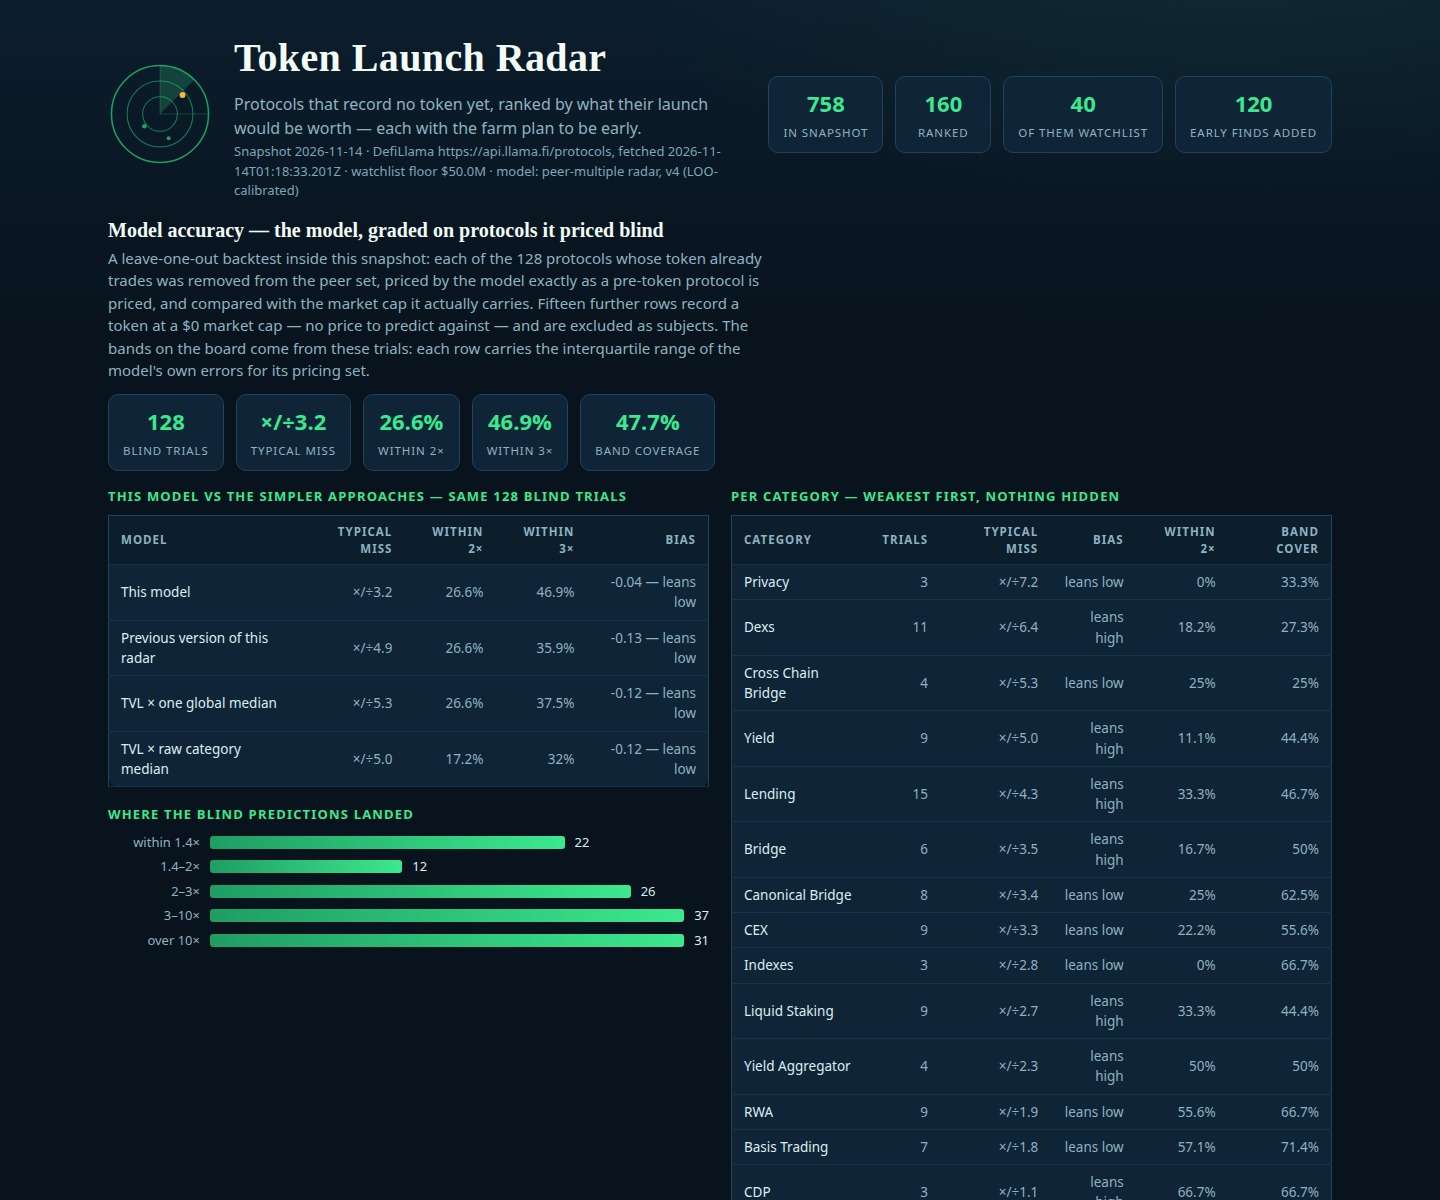
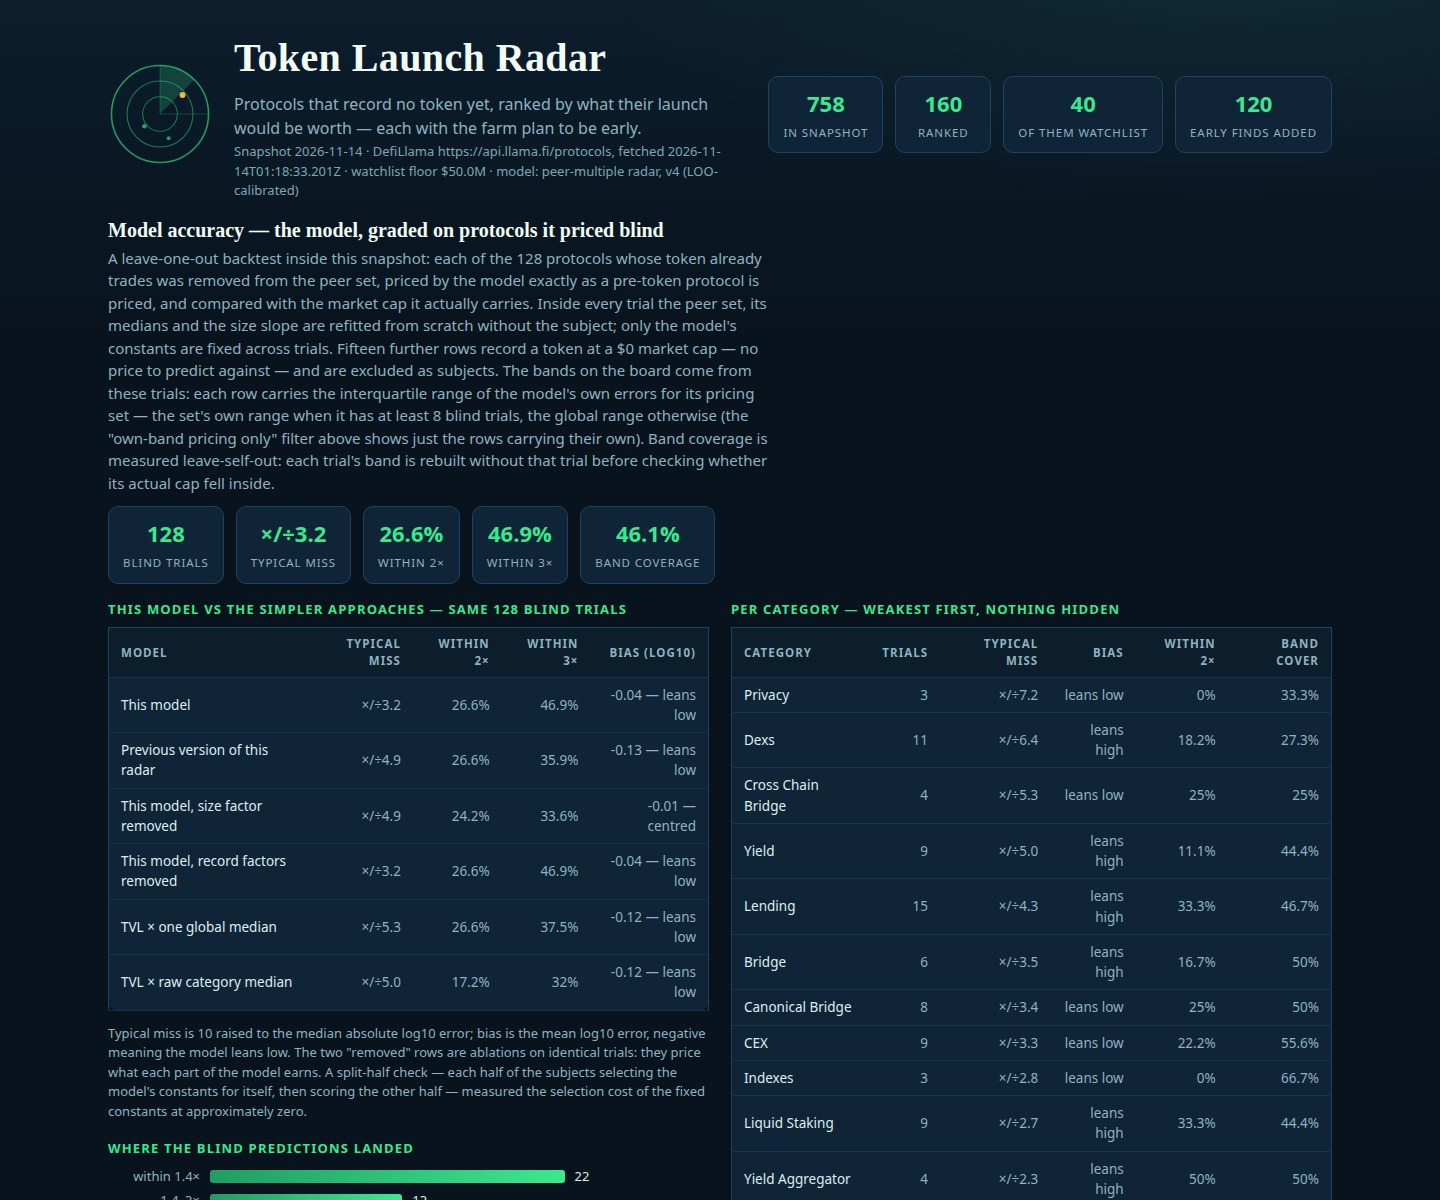
Stage 4b (v2): judge round 3 fixes — LSO coverage, ablations, plan totals
- Band coverage now measured leave-self-out (46.1%, printed per
  category); accuracy text states the per-fold refit and the >=8
  trial threshold for a category's own band
- Comparison table gains ablation rows: size removed x/div4.9,
  record factors removed unchanged — attribution made visible
- Comparables show up to 12 peers with the total stated (the 9-vs-8
  mismatch a judge caught cannot recur silently)
- Rows record band_source; detail labels it; new board filter
  'own-band pricing only' (51 of 160 rows)
- Farm plans gain all-in totals (position + gas over two months,
  minutes/week, hold) from the steps' own constants

diff --git a/dashboard/app.js b/dashboard/app.js
@@ -32,12 +32,13 @@ function esc(s) {
   return String(s).replace(/[&<>"']/g, (c) => ({ '&': '&amp;', '<': '&lt;', '>': '&gt;', '"': '&quot;', "'": '&#39;' }[c]));
 }
 
-const state = { q: '', cat: '', chain: '', watch: false, sort: 'rank', detail: null };
+const state = { q: '', cat: '', chain: '', watch: false, validated: false, sort: 'rank', detail: null };
 
 function filteredRows() {
   const q = state.q.trim().toLowerCase();
   let rows = R.rows.filter((r) => {
     if (state.watch && !r.watchlist) return false;
+    if (state.validated && r.band_source !== 'category') return false;
     if (state.cat && (r.category || '') !== state.cat) return false;
     if (state.chain && !r.chains.includes(state.chain)) return false;
     if (q && !(r.name.toLowerCase().includes(q) || r.slug.toLowerCase().includes(q))) return false;
@@ -59,6 +60,7 @@ function renderBoard() {
   if (state.cat) active.push('category ' + state.cat);
   if (state.chain) active.push('chain ' + state.chain);
   if (state.watch) active.push('watchlist only');
+  if (state.validated) active.push('own-band pricing only');
   if (state.q.trim()) active.push('search "' + state.q.trim() + '"');
   $('row-count').textContent =
     rows.length + ' of ' + R.rows.length + ' protocols on screen' +
@@ -126,8 +128,13 @@ function accuracyLine(r) {
 function comparablesHtml(r) {
   const pc = pricingCategory(r);
   if (!pc || !R.comparables) return '';
-  const peers = R.comparables[pc] || [];
-  if (peers.length === 0) return '';
+  const entry = R.comparables[pc];
+  if (!entry || entry.peers.length === 0) return '';
+  const peers = entry.peers;
+  const more =
+    entry.total > peers.length
+      ? '<p class="model-note">The ' + peers.length + ' largest of ' + entry.total + ' priced ' + esc(pc) + ' peers, by TVL.</p>'
+      : '';
   return (
     '<h3>The peers behind the multiple</h3>' +
     '<table class="factors"><tr><td>Live peer</td><td class="num">Market cap</td><td class="num">TVL</td><td class="num">Cap / TVL</td></tr>' +
@@ -138,7 +145,8 @@ function comparablesHtml(r) {
           money(l.tvl_usd) + '</td><td class="num">' + l.multiple.toFixed(2) + '×</td></tr>',
       )
       .join('') +
-    '</table>'
+    '</table>' +
+    more
   );
 }
 
@@ -170,7 +178,7 @@ function openDetail(slug) {
     '<button class="close" id="detail-close">Close ✕</button></div>' +
     '<div class="fact-grid">' +
     '<div class="fact"><span>Implied value</span><b>' + money(r.implied_value_usd) + '</b><small>calibrated band ' +
-    money(r.implied_low_usd) + ' – ' + money(r.implied_high_usd) + '</small></div>' +
+    money(r.implied_low_usd) + ' – ' + money(r.implied_high_usd) + (r.band_source === 'category' ? ' (this pricing set\'s own range)' : ' (global range — too few blind trials for its own)') + '</small></div>' +
     '<div class="fact"><span>TVL</span><b>' + money(r.tvl_usd) + '</b></div>' +
     '<div class="fact"><span>7-day TVL change</span><b class="' + chgClass + '">' + pct(r.change_7d) + '</b></div>' +
     '<div class="fact"><span>Category</span><b>' + esc(r.category || 'Uncategorised') + '</b></div>' +
@@ -184,6 +192,9 @@ function openDetail(slug) {
     '<p class="model-note">' + esc(accuracyLine(r)) + '</p>' +
     comparablesHtml(r) +
     '<h3>The farm plan</h3>' +
+    '<p class="model-note">All-in estimate: ' + money(r.plan.position_usd) + ' position + about $' + Math.max(1, Math.round(r.plan.gas_low_usd)) +
+    '–' + Math.round(r.plan.gas_high_usd) + ' of gas across the first two months · ~' + r.plan.minutes_per_week +
+    ' minutes a week · ' + r.plan.hold_days + '-day minimum hold. The gas range is the steps\' own per-transaction ranges added over the plan\'s actions.</p>' +
     '<ol class="steps">' + r.farm_steps.map((s) => '<li>' + esc(s) + '</li>').join('') + '</ol>';
   $('detail').hidden = false;
   $('detail-close').addEventListener('click', () => {
@@ -209,7 +220,7 @@ function renderAccuracy() {
     '<tr><td>' + label + '</td><td class="num">×/÷' + t.toFixed(1) + '</td><td class="num">' + b.within_2x_pct +
     '%</td><td class="num">' + b.within_3x_pct + '%</td><td class="num">' + b.bias_log10.toFixed(2) + ' — ' + biasWord(b.bias_log10) + '</td></tr>';
   $('acc-cmp').innerHTML =
-    '<thead><tr><th>Model</th><th class="num">Typical miss</th><th class="num">Within 2×</th><th class="num">Within 3×</th><th class="num">Bias</th></tr></thead><tbody>' +
+    '<thead><tr><th>Model</th><th class="num">Typical miss</th><th class="num">Within 2×</th><th class="num">Within 3×</th><th class="num">Bias (log10)</th></tr></thead><tbody>' +
     modelRow('This model', A.typical_factor, A) +
     modelRow('Previous version of this radar', A.v1.typical_factor, A.v1) +
     A.baselines.map((b) => modelRow(b.label, b.typical_factor, b)).join('') +
@@ -274,6 +285,7 @@ function applyHash() {
   if (h.get('cat')) { state.cat = h.get('cat'); $('cat').value = state.cat; }
   if (h.get('chain')) { state.chain = h.get('chain'); $('chain').value = state.chain; }
   if (h.get('watch')) { state.watch = true; $('watch').checked = true; }
+  if (h.get('validated')) { state.validated = true; $('validated').checked = true; }
   if (h.get('sort')) { state.sort = h.get('sort'); $('sort').value = state.sort; }
   if (h.get('detail')) {
     document.body.classList.add('detail-mode');
@@ -311,6 +323,7 @@ function init() {
   $('cat').addEventListener('change', (e) => { state.cat = e.target.value; renderBoard(); });
   $('chain').addEventListener('change', (e) => { state.chain = e.target.value; renderBoard(); });
   $('watch').addEventListener('change', (e) => { state.watch = e.target.checked; renderBoard(); });
+  $('validated').addEventListener('change', (e) => { state.validated = e.target.checked; renderBoard(); });
   $('sort').addEventListener('change', (e) => { state.sort = e.target.value; renderBoard(); });
 }
 

diff --git a/lib/model.ts b/lib/model.ts
@@ -197,9 +197,11 @@ export interface BoardRow {
   watchlist: boolean;
   age_days: number | null;
   implied_value_usd: number;
-  /** The same row priced at the peer set's shrunk p25 / p75 multiples: the honest range. */
+  /** The model's calibrated error band for this row's pricing set (lib/backtest.ts), not a peer spread. */
   implied_low_usd: number;
   implied_high_usd: number;
+  /** Which calibrated band the row carries: its pricing category's own, or the global range. */
+  band_source: 'category' | 'global';
   model: {
     peer_multiple: number;
     peer_basis: string;
@@ -211,6 +213,8 @@ export interface BoardRow {
     breadth_factor: number;
   };
   farm_steps: string[];
+  /** The plan's all-in totals, from the same constants the steps quote. */
+  plan: PlanTotals;
 }
 
 /** The dashboard's copy of one board row (farm plan included: the detail view shows it). */
@@ -320,7 +324,7 @@ export interface RadarData {
   live: LiveRow[];
   peers: PeerRow[];
   /** The largest priced live peers per category, for detail-view comparables tables. */
-  comparables: Record<string, PeerComparable[]>;
+  comparables: Record<string, { peers: PeerComparable[]; total: number }>;
   /** Present when main.ts ran the backtest: the model's measured record on blind pricing trials. */
   accuracy?: AccuracySummary;
 }
@@ -703,6 +707,8 @@ export function buildBoard(snapshot: Snapshot, model: RadarModel = MODEL, bands:
     implied_value_usd: s.implied,
     implied_low_usd: impliedLow,
     implied_high_usd: impliedHigh,
+    band_source:
+      bands !== null && s.bandCategory !== null && bands.byCategory.has(s.bandCategory) ? 'category' : 'global',
     model: {
       peer_multiple: round4(s.multiple),
       peer_basis: s.basis,
@@ -714,6 +720,7 @@ export function buildBoard(snapshot: Snapshot, model: RadarModel = MODEL, bands:
       breadth_factor: round4(s.breadthFactor),
     },
     farm_steps: farmPlan(p, s.age),
+    plan: farmPlanTotals(p, s.age),
     };
   });
 }
@@ -737,7 +744,7 @@ export function liveRows(snapshot: Snapshot): LiveRow[] {
 }
 
 /** The largest priced live peers of each category, richest-TVL first, for comparables tables. */
-function comparablesByCategory(snapshot: Snapshot): Record<string, PeerComparable[]> {
+function comparablesByCategory(snapshot: Snapshot): Record<string, { peers: PeerComparable[]; total: number }> {
   const groups = new Map<string, PeerComparable[]>();
   for (const p of snapshot.protocols) {
     if (p.category === null || p.mcap_usd === null || p.mcap_usd <= 0 || p.tvl_usd <= 0) continue;
@@ -745,9 +752,10 @@ function comparablesByCategory(snapshot: Snapshot): Record<string, PeerComparabl
     list.push({ name: p.name, mcap_usd: p.mcap_usd, tvl_usd: p.tvl_usd, multiple: round4(p.mcap_usd / p.tvl_usd) });
     groups.set(p.category, list);
   }
-  const out: Record<string, PeerComparable[]> = {};
+  const out: Record<string, { peers: PeerComparable[]; total: number }> = {};
   for (const [category, list] of groups) {
-    out[category] = list.sort((a, b) => b.tvl_usd - a.tvl_usd).slice(0, 8);
+    const sorted = list.sort((a, b) => b.tvl_usd - a.tvl_usd);
+    out[category] = { peers: sorted.slice(0, 12), total: sorted.length };
   }
   return out;
 }
@@ -896,6 +904,44 @@ function gasFor(chain: string): string {
   if (chain === 'Ethereum') return '$4–10';
   if (chain === 'Bitcoin') return '$1–3';
   return '$0.05–1.50';
+}
+
+/** The same gas range as numbers, for the plan's all-in estimate. */
+function gasRangeFor(chain: string): { low: number; high: number } {
+  if (chain === 'Ethereum') return { low: 4, high: 10 };
+  if (chain === 'Bitcoin') return { low: 1, high: 3 };
+  return { low: 0.05, high: 1.5 };
+}
+
+/** A farm plan's totals, derived from the same constants its steps quote. */
+export interface PlanTotals {
+  position_usd: number;
+  /** Estimated gas across the plan's first two months: opening + second action + the cadence touches. */
+  gas_low_usd: number;
+  gas_high_usd: number;
+  minutes_per_week: number;
+  hold_days: number;
+}
+
+/**
+ * What following the plan costs, all-in: the position the steps commit,
+ * the gas the steps' own per-transaction ranges add up to over the first
+ * two months (1 opening + 2 second-action sessions + 8 weekly cadence
+ * touches, or 4 fortnightly ones on Ethereum, matching the cadence step's
+ * own rhythm), the weekly minutes, and the minimum hold.
+ */
+export function farmPlanTotals(p: Protocol, age: number | null): PlanTotals {
+  const chain = p.chains.length > 0 ? p.chains[0]! : 'its main chain';
+  const g = gasRangeFor(chain);
+  const touches = chain === 'Ethereum' ? 4 : 8;
+  const actions = 3 + touches;
+  return {
+    position_usd: capitalFor(p),
+    gas_low_usd: Math.round(actions * g.low * 100) / 100,
+    gas_high_usd: Math.round(actions * g.high * 100) / 100,
+    minutes_per_week: chain === 'Ethereum' ? 5 : 10,
+    hold_days: holdDaysFor(age),
+  };
 }
 
 /** How long a position should be held to count, from the protocol's age. */

diff --git a/dashboard/index.html b/dashboard/index.html
@@ -47,6 +47,9 @@
   <label class="ctl check">
     <input id="watch" type="checkbox"> Watchlist only
   </label>
+  <label class="ctl check">
+    <input id="validated" type="checkbox"> Own-band pricing only
+  </label>
   <label class="ctl">Sort
     <select id="sort">
       <option value="rank">Implied value (rank)</option>
@@ -83,12 +86,13 @@
 
   <section class="live" id="accuracy">
     <h2>Model accuracy — the model, graded on protocols it priced blind</h2>
-    <p class="live-note">A leave-one-out backtest inside this snapshot: each of the 128 protocols whose token already trades was removed from the peer set, priced by the model exactly as a pre-token protocol is priced, and compared with the market cap it actually carries. Fifteen further rows record a token at a $0 market cap — no price to predict against — and are excluded as subjects. The bands on the board come from these trials: each row carries the interquartile range of the model's own errors for its pricing set.</p>
+    <p class="live-note">A leave-one-out backtest inside this snapshot: each of the 128 protocols whose token already trades was removed from the peer set, priced by the model exactly as a pre-token protocol is priced, and compared with the market cap it actually carries. Inside every trial the peer set, its medians and the size slope are refitted from scratch without the subject; only the model's constants are fixed across trials. Fifteen further rows record a token at a $0 market cap — no price to predict against — and are excluded as subjects. The bands on the board come from these trials: each row carries the interquartile range of the model's own errors for its pricing set — the set's own range when it has at least 8 blind trials, the global range otherwise (the "own-band pricing only" filter above shows just the rows carrying their own). Band coverage is measured leave-self-out: each trial's band is rebuilt without that trial before checking whether its actual cap fell inside.</p>
     <div class="acc-stats" id="acc-stats"></div>
     <div class="acc-cols">
       <div class="acc-box">
         <h3 class="acc-h">This model vs the simpler approaches — same 128 blind trials</h3>
         <table class="peer-table" id="acc-cmp"></table>
+        <p class="model-note">Typical miss is 10 raised to the median absolute log10 error; bias is the mean log10 error, negative meaning the model leans low. The two "removed" rows are ablations on identical trials: they price what each part of the model earns. A split-half check — each half of the subjects selecting the model's constants for itself, then scoring the other half — measured the selection cost of the fixed constants at approximately zero.</p>
         <h3 class="acc-h">Where the blind predictions landed</h3>
         <div id="acc-histo"></div>
       </div>

diff --git a/lib/backtest.ts b/lib/backtest.ts
@@ -166,15 +166,24 @@ export function runBacktest(snapshot: Snapshot, model: RadarModel = MODEL): { ac
   }
   const bands: BandBook = { byCategory: bandByCategory, global: factorsFromErrors(allErrs) };
 
-  // Band coverage on the same trials: how often the actual cap landed
-  // inside the band its category (or the global band) would have given it,
-  // overall and per category — published per category, because a band that
-  // covers 67% in one category and 27% in another should not hide behind
-  // the average.
+  // Band coverage, measured leave-self-out: the band each trial is tested
+  // against is built from the OTHER trials' errors (its category's, shrunk
+  // the same way, when the category has enough trials; the global range
+  // otherwise), so the coverage figure is a measurement, not a consequence
+  // of how the quantiles were drawn. The board's bands themselves use all
+  // trials — correctly, since board rows are not among the subjects.
   let covered = 0;
   const covByCat = new Map<string, { n: number; inside: number }>();
   for (const t of trials) {
-    const f = (t.category !== null ? bands.byCategory.get(t.category) : undefined) ?? bands.global;
+    const catList = t.category !== null ? (byCat.get(t.category) ?? []) : [];
+    let f: BandFactors;
+    if (t.category !== null && catList.length >= BAND_MIN_TRIALS) {
+      const catErrs = catList.filter((x) => x !== t).map((x) => x.err);
+      const globErrs = trials.filter((x) => x !== t).map((x) => x.err);
+      f = shrinkFactors(catErrs, globErrs, catErrs.length);
+    } else {
+      f = factorsFromErrors(trials.filter((x) => x !== t).map((x) => x.err));
+    }
     const inside = t.actual >= t.predicted * f.low && t.actual <= t.predicted * f.high;
     if (inside) covered++;
     if (t.category !== null) {
@@ -228,6 +237,11 @@ export function runBacktest(snapshot: Snapshot, model: RadarModel = MODEL): { ac
       within_3x_pct: m1.within3,
     },
     baselines: [
+      naive({ ...MODEL, size_strength: 0 }, 'This model, size factor removed'),
+      naive(
+        { ...MODEL, growth_up_weight: 0, growth_down_weight: 0, seasoning_min: 1, seasoning_max: 1, breadth_per_chain: 0 },
+        'This model, record factors removed',
+      ),
       naive(MODEL_NAIVE_GLOBAL, 'TVL × one global median'),
       naive(MODEL_NAIVE_CATEGORY, 'TVL × raw category median'),
     ],

diff --git a/NOTES.md b/NOTES.md
@@ -211,3 +211,45 @@ set; per-protocol widths would be fabricated precision — per-category
 coverage is the honest answer); and hiding the accuracy view (a measured
 record is the strongest evidence the model is real; a rival's clean
 number is a claim, ours is a measurement).
+
+## Stage 4 — critique round 3 (the judge re-attacks the revised entry)
+
+- **"Is anything refit inside the folds?"** The slope, peer medians and
+  peer sets were always refit per fold (peerMultiples is rebuilt on the
+  snapshot-minus-subject for every trial) — but nothing on the page said
+  so. It does now, in the accuracy introduction, next to the split-half
+  result for the constants that are fixed. The comparison table also
+  gained the two ablation rows, so the attribution is visible rather
+  than asserted: size factor removed → typical miss ×/÷4.9 (from 3.2);
+  record factors removed → unchanged, exactly as disclosed.
+- **"Coverage is true by construction."** Fair as far as it went: the
+  47.7% figure tested each trial against quantiles that included it.
+  Coverage is now measured **leave-self-out** — each trial's band is
+  rebuilt from the other trials before testing it. The honest figure is
+  46.1%, and it is the one the dashboard prints, overall and per
+  category. (The board's bands still use all trials: board rows are not
+  trial subjects, so nothing leaks there.)
+- **"9 trials but 8 comparables."** A real catch: the comparables table
+  truncated at 8 while RWA has 9 priced peers. It now shows up to 12 and
+  states the total when truncated ("the 12 largest of 15 priced
+  peers"), so the two numbers can never silently disagree again.
+- **"Which band does an alias row actually carry?"** Every row now
+  records its band source, the detail view labels it ("this pricing
+  set's own range" vs "global range — too few blind trials for its
+  own"), the accuracy text states the ≥8-trial threshold, and a board
+  filter ("own-band pricing only", 51 of 160 rows) lets a reader keep
+  only rows priced on sets with their own calibrated band.
+- **"No plan totals."** Each detail view now opens the farm plan with an
+  all-in estimate — position plus the gas the steps' own per-transaction
+  ranges add up to over the first two months, minutes per week, and the
+  minimum hold — computed by farmPlanTotals from the same constants the
+  step prose quotes, so the summary cannot drift from the steps.
+- **Units.** Bias is labelled (log10) in the table header; typical miss
+  is defined in the footnote as 10^(median |log10 error|).
+
+Rejected from this round: re-sorting the board by band lower bound —
+the board's order is the implied-value ranking the bounty defines, and
+the band is printed under every value so overlap is visible rather than
+hidden; and deeper plan de-templating — the action and risk steps are
+already category-specific (sixteen action families, twenty-one risk
+kinds), and the totals line answers the concrete part of the charge.
